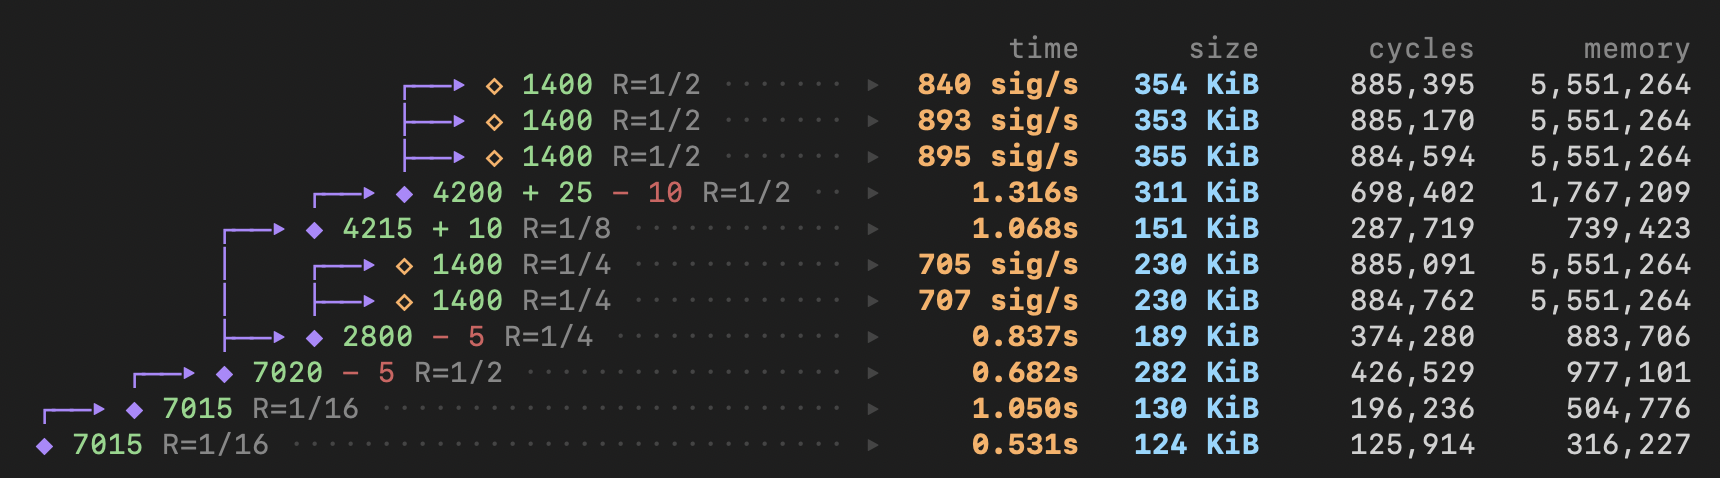
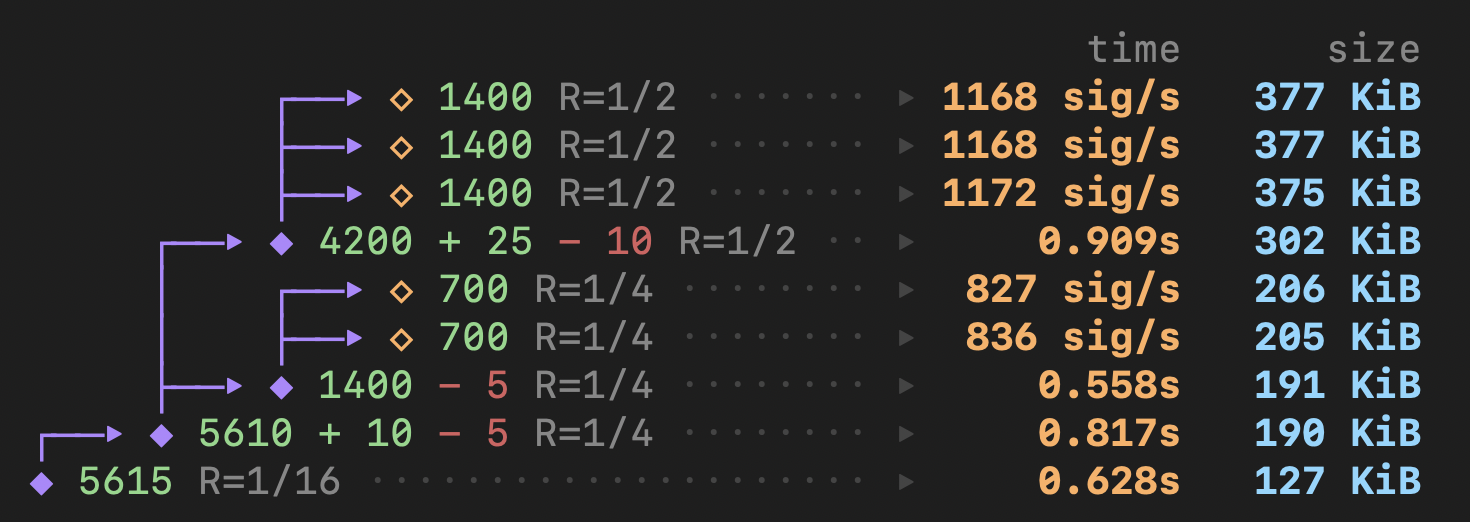
update benchmarks in README.md

Changed region(s): [[0.0918, 0.0586, 1.0, 0.9665], [0.0, 0.5272, 0.5204, 0.9665], [0.5816, 0.0879, 0.6429, 0.1172]]

diff --git a/src/main.rs b/src/main.rs
@@ -92,42 +92,34 @@ fn main() {
             let topology = AggregationTopology {
                 raw_xmss: 0,
                 children: vec![AggregationTopology {
-                    raw_xmss: 0,
-                    children: vec![AggregationTopology {
-                        raw_xmss: 0,
-                        children: vec![
-                            AggregationTopology {
-                                raw_xmss: 10,
-                                children: vec![AggregationTopology {
-                                    raw_xmss: 25,
-                                    children: vec![
-                                        AggregationTopology {
-                                            raw_xmss: 1400,
-                                            children: vec![],
-                                            log_inv_rate: 1,
-                                        };
-                                        3
-                                    ],
+                    raw_xmss: 10,
+                    children: vec![
+                        AggregationTopology {
+                            raw_xmss: 25,
+                            children: vec![
+                                AggregationTopology {
+                                    raw_xmss: 1400,
+                                    children: vec![],
                                     log_inv_rate: 1,
-                                }],
-                                log_inv_rate: 3,
-                            },
-                            AggregationTopology {
-                                raw_xmss: 0,
-                                children: vec![
-                                    AggregationTopology {
-                                        raw_xmss: 1400,
-                                        children: vec![],
-                                        log_inv_rate: 2,
-                                    };
-                                    2
-                                ],
-                                log_inv_rate: 2,
-                            },
-                        ],
-                        log_inv_rate: 1,
-                    }],
-                    log_inv_rate: 4,
+                                };
+                                3
+                            ],
+                            log_inv_rate: 1,
+                        },
+                        AggregationTopology {
+                            raw_xmss: 0,
+                            children: vec![
+                                AggregationTopology {
+                                    raw_xmss: 700,
+                                    children: vec![],
+                                    log_inv_rate: 2,
+                                };
+                                2
+                            ],
+                            log_inv_rate: 2,
+                        },
+                    ],
+                    log_inv_rate: 2,
                 }],
                 log_inv_rate: 4,
             };

diff --git a/README.md b/README.md
@@ -34,10 +34,10 @@ Machine: M4 Max 48GB (CPU only)
 cargo run --release -- xmss --n-signatures 1400
 ```
 
-| WHIR rate \ regime | Proven               | Conjectured          |
-| ------------------ | -------------------- | -------------------- |
-| 1/2                | 800 XMSS/s - 355 KiB | 800 XMSS/s - 188 KiB |
-| 1/4                | 700 XMSS/s - 229 KiB | 700 XMSS/s - 130 KiB |
+| WHIR rate \ regime | Proven                | Conjectured           |
+| ------------------ | --------------------- | --------------------- |
+| 1/2                | 1150 XMSS/s - 377 KiB | 1200 XMSS/s - 190 KiB |
+| 1/4                | 850 XMSS/s - 243 KiB  | 850 XMSS/s - 130 KiB  |
 
 (Proving throughput - proof size)
 
@@ -52,7 +52,7 @@ cargo run --release -- recursion --n 2
 
 | Proven          | Conjectured     |
 | --------------- | --------------- |
-| 0.85s - 188 KiB | 0.57s - 116 KiB |
+| 0.55s - 190 KiB | 0.42s - 101 KiB |
 
 
 ### Bonus: unbounded recursive aggregation
